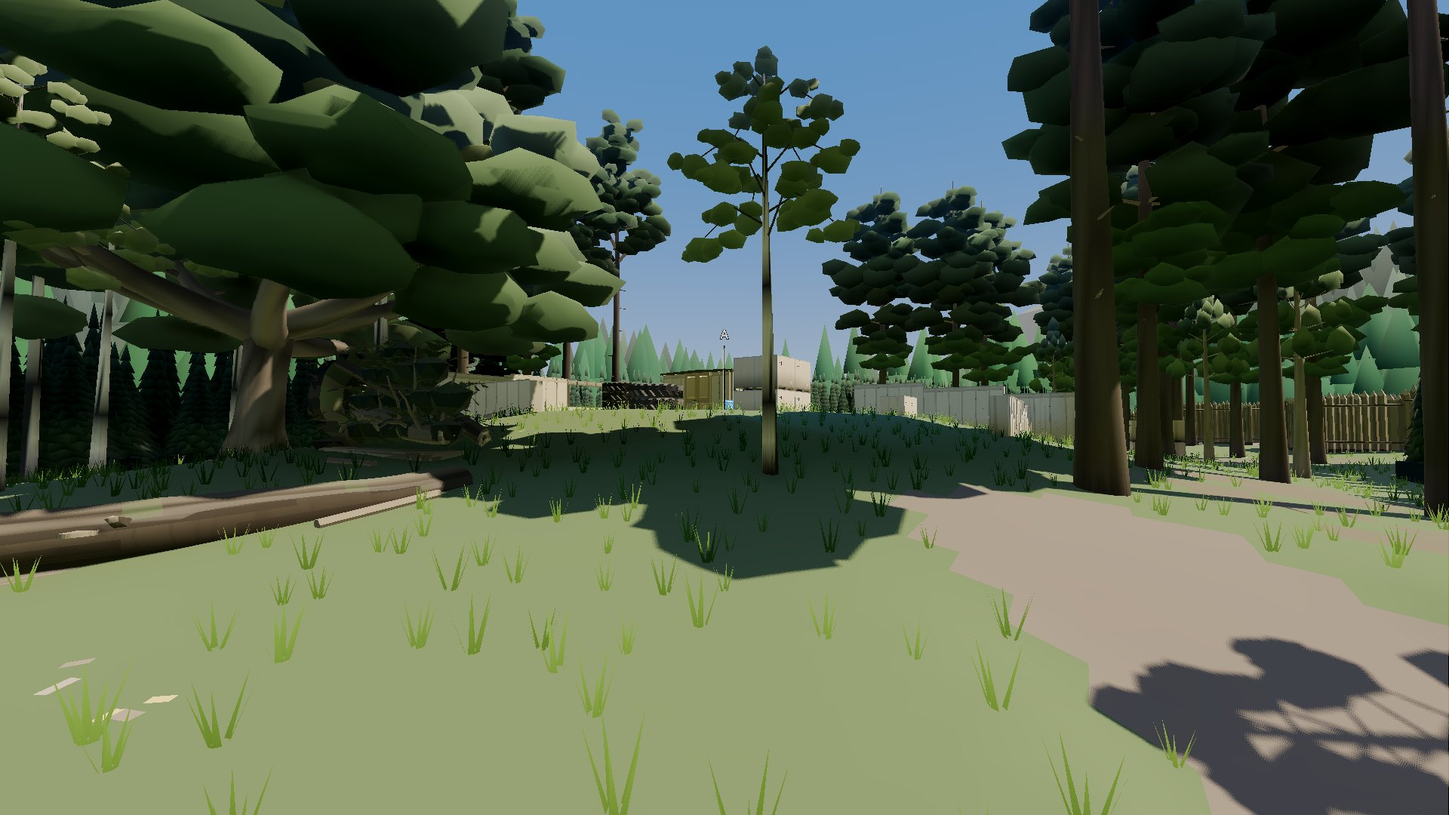
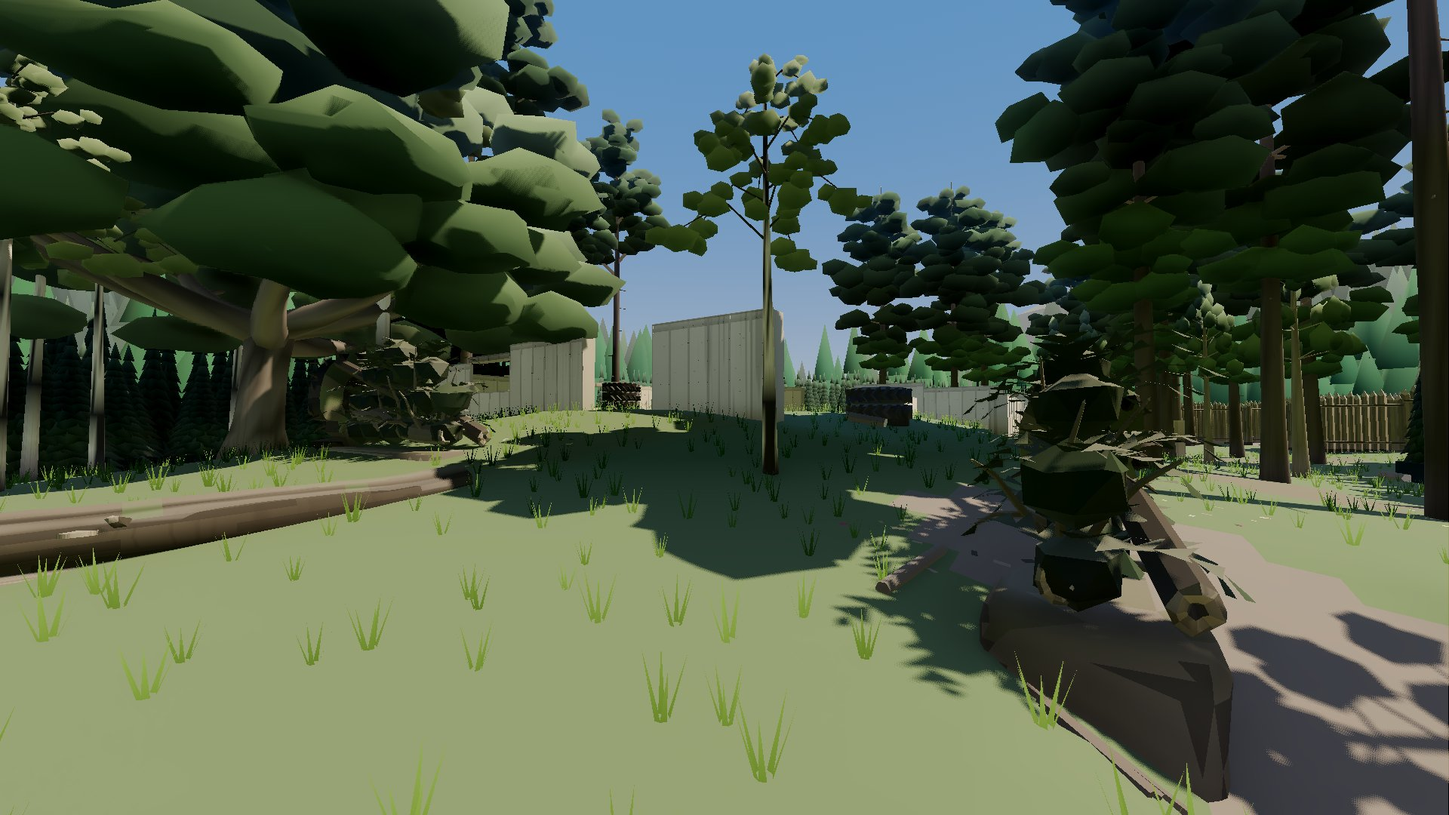
MB1: figures measured again on RP1's replicas, Woodland's card, QA's re-check
Every before and after in the record, the decisions and the known issues is now
measured on the branch rebuilt on RP1: Depot 49 to 51 % and 44 to 51 %, Woodland
55 to 50 % and 56 to 59 %, Subway 55 to 54 % and 46 to 52 %.

Claude-Session: https://claude.ai/code/session_01JjsDiwZQZfx2FhRSxBWSM5

diff --git a/docs/records/MB1.md b/docs/records/MB1.md
@@ -28,9 +28,12 @@ Three dev tools, none exported, none run by a check:
   commit's map for a "before"); `tools/maps/los.py` is a quick 2.5D sight check for trying a layout edit.
 
 Eight matches a mode at 6v6 and Normal are about 60 rounds, so a win share carries about ±6 points; the figures that
-decided a pass were re-run to 16 matches, and Woodland's before and after are 16 each. Subway's are measured on
-`main`'s map of 2026-11-12 (SM2 and TB1 merged), before and after. Bands: each end 45 to 55 % of Elimination's
-rounds, the attackers 40 to 65 % of Attack / Defend's (`tools/balance.sh`).
+decided a pass were re-run to 16 matches or more. Bands: each end 45 to 55 % of Elimination's rounds, the attackers
+40 to 65 % of Attack / Defend's (`tools/balance.sh`).
+
+RP1 (the replicas' balance, #319) merged while this task ran and moved the bots' fights, so every "after" below is
+measured on the branch rebuilt on it (`main` at 055b438), and the "before" is `main`'s own map at that commit unless
+a figure says "before RP1".
 
 ## What the bots' planner needs of a lane
 
@@ -53,35 +56,37 @@ rounds, Attack / Defend's the attackers'.
 
 | Field | Elimination | Attack / Defend | Knock-out range, Elimination (median; over 30 m) |
 |---|---|---|---|
-| Depot | 44 % ±3 (242 rounds) to 50 % ±5 (122) | 48 % ±6 to 43 % ±7 (46 % ±4 over the last three passes, 181) | 12 m, 6 % (unchanged) |
-| Woodland | 46 % ±5 (121) to 44 % ±4 (124) | 61 % ±4 (123) to 55 % ±5 (121) | 38 m, 71 % to 17 m, 20 % |
-| Subway | 57 % ±6 (63) to 46 % ±5 (117) | 38 % ±6 to 57 % ±6 | 7 m to 8 m, none |
+| Depot | 49 % ±4 (124 rounds) to 51 % ±5 (121) | 44 % ±6 (62) to 51 % ±6 (65) | 13 m, 6 % to 12 m, 5 % |
+| Woodland | 55 % ±6 (60) to 50 % ±4 (173) | 56 % ±5 (120) to 59 % ±5 (117) | 40 m, 73 % to 20 m, 25 % |
+| Subway | 55 % ±4 (127) to 54 % ±4 (127) | 46 % ±6 (59) to 52 % ±6 (60) | 7 m to 8 m, none |
 
 ### Depot (`tools/depot/layout.py`, `data/maps/depot.json`, 222 blocks, were 220; the bake rebuilt)
 
-- **Found:** the lanes, links and ranges are sound (knock-outs at 12 m, 6 % over 30 m, rounds 41 s). Attack / Defend's
+- **Found:** the lanes, links and ranges are sound (knock-outs at 13 m, 6 % over 30 m, rounds 45 s). Attack / Defend's
   defenders waited at the foot of the A stairs and the B ramp, outside the sites, and the poles stood in the open: on
-  the two sites the attackers lost 188 and scored 71, and 70 defenders were caught on the stairs and the ramp.
-  Elimination leaned east, 44 % for the west over 242 rounds (the first two passes, which left the middle alone,
-  included).
+  the two sites the attackers lost 203 and scored 70, and 78 defenders were caught on the stairs and the ramp; a flag
+  went up in 27 % of rounds. Before RP1 Elimination leaned east (44 % ±3 for the west over 242 rounds), the west's
+  squads sent 6 m deeper down the Chrono hall than the east's; with RP1's replicas the same layout reads 49 % ±4.
 - **A site:** a crate stack at (41.5, -27.2) between the pole and both Offices doors and one at (46.2, -23.8) between
   it and the A stairs' mouth; the corner stack at (49.2, -26), behind the pole, is gone. **B site** mirrors it:
   (42.5, 27.6) and (47.0, 24.4) in, (50, 27) out.
 - **Lanes:** the north and south lanes end on the sites, one post behind the flag stack and one at the low crate by
   the stairs (ramp) mouth; the middle lane's two are behind the Garage dog-leg's stacks. Each lane has one point
-  about 4.5 m either side of the middle and none between; the middle lane's pair sits 0.8 m east of even (dead even
-  the west took 55 % ±4 over 195 rounds).
-- **After:** on the sites 111 to 190, the median knock-out there at 10 m (16) and half inside 10 m (a fifth); 20
-  defenders caught on the stairs and ramp. `tests/unit/test_baked_light.gd` counts the two blocks more.
+  about 4.5 m either side of the middle and none between; the middle lane's pair sits 0.8 m east of even (before RP1,
+  dead even gave the west 55 % ±4 over 195 rounds and 0.8 m east 50 % ±5).
+- **After:** on the sites 148 to 208, the median knock-out of Attack / Defend at 10 m (16) and 48 % inside 10 m
+  (22 %); 22 defenders caught on the stairs and ramp; a flag goes up in 45 % of rounds and the attackers take 51 % ±6
+  (44 % ±6). Elimination stays even (51 % ±5 over 16 matches). `tests/unit/test_baked_light.gd` counts the two blocks
+  more.
 
 ### Woodland (`tools/woodland/layout.py`, `data/maps/woodland.json`, `tools/woodland/check.py`)
 
 - **Found:** every lane was shot from end to end. The Ridge looked 86 m down the north lane, the Clearing 70 m over
   the Ford to Hut row, and the Long road ran 60 m with nothing on it under a hump 2.5 m over the road beyond. Of
-  Elimination's knock-outs 71 % came from over 30 m (median 38 m; a round's first at 40 m). The win shares were in
-  band or at its edge (the west 46 % ±5 of Elimination, the attackers 61 % ±4), but the flags were taken from outside:
-  round the two poles the attackers scored 315 to 97 from about 30 m, the Fort's west side a low wall and flag B open
-  to the road.
+  Elimination's knock-outs 73 % came from over 30 m (median 40 m; a round's first at 45 m; before RP1 71 %, 38 m and
+  40 m). The win shares were in band (the west 55 % ±6 of Elimination, the attackers 56 % ±5; before RP1 46 % ±5 and
+  61 % ±4 over 16 matches each), but the flags were taken from outside: round the two poles the attackers scored 309
+  to 100 from about 30 m, the Fort's west side a low wall and flag B open to the road.
 - **North:** five hazels on the Ridge's brow and three behind (the Brow hazel; a windthrow screen with one gap gave
   the west 30 %); a fallen tree at the North bridge's west head and a cordwood stack at its east; the Fort's west
   side a full wall with a window and a doorway, crates and a tyre stack inside, a fallen tree off its south side.
@@ -91,41 +96,48 @@ rounds, Attack / Defend's the attackers'.
   east bank, joined, with a hazel below and three on the crest at the head of the bank's ramp, 5 m wide; the Hut row
   crates deeper and double height, and a stack across the Back yard's mouth.
 - **South:** three fallen trees across the Long road, staggered, the first on the hump's top (`tag="roadblock"`:
-  `check.py` lets a piece meant to block the road stand on it); a cordwood stack across the road 14 m past the
-  Culvert, a gate screen's 2.8 m, and one behind the west camp's road gate; at the Sawmill a stack between flag B and
+  `check.py` lets a piece meant to block the road stand on it); a cordwood stack across the road where the lane
+  leaves the Culvert, a gate screen's 2.8 m, and one behind the west camp's road gate; at the Sawmill a stack between flag B and
   the road.
 - **Lanes:** re-laid through the new pieces; the middle lane ends in the Back yard (it ended in the east camp). Each
   has one point either side of the field's middle, the middle lane's western one behind the Clearing's tree. The
-  south lane's last two, flag B's defenders, are behind the crates north of the road mouth and behind the flag's
-  stack.
-- **Passes:** twelve layouts were measured (`pipeline/out/mb1/`, not committed). A screen with one gap on the Ridge
+  north lane's middle falls at the west end of the North bridge, a footbridge 1.8 m wide: the west's point is on the
+  deck's first metres and the east's 2 m off that end by the fallen tree's root plate, so the lane is fought at the
+  bridge's west head and the west is not sent over the deck. The south lane's last two, flag B's defenders, are behind the crates north of the road mouth and
+  behind the flag's stack.
+- **Passes:** fifteen layouts were measured (`pipeline/out/mb1/`, not committed). A screen with one gap on the Ridge
   gave the west 30 %. A fourth road tree and an open Ford each put the long lines back (26 m, 43 % over 30 m). A 2 m
   door between the Ford's thickets was a queue. A pen of two stacks round flag B gave the attackers 78 %. The road's
   stack at 1.8 m left one 52 m duel from the hump onto flag B's post, 88 of Attack / Defend's 142 knock-outs from over
-  38 m; at 2.8 m and 3.5 m further east, where that line is lower, 3 of 107 recorded pairs still see each other. Flag
-  B's forward defender in the road mouth took 80 of the 175 knock-outs the attackers scored there, from 25 m
-  (attackers 64 %); behind the crates, 55 %. The first eight baseline matches read 43 % and 70 % and sixteen read 46 %
-  and 61 %: the before is measured as long as the after.
-- **After:** Elimination's median knock-out at 17 m (38), 20 % from over 30 m (71), a round's first at 16 m (40); by
-  lane the north 25 m, the middle 17 m, the road 10 m (38, 37 and 39). Attack / Defend: 17 m (33) and 17 % over 30 m
-  (58); round flag A the attackers score 109 to 121 at 8 m (146 to 55 at 38 m), round flag B 150 to 88 at 9 m (169 to
-  42 at 27 m). The west's 44 % ±4 of Elimination is a point under the band, as the 46 % ±5 before was at its edge
-  (`docs/KNOWN_ISSUES.md`).
+  38 m; a gate screen's 2.8 m shuts it. The same stack 3.5 m further east was the attackers' cover onto the site
+  (71 % of 126 rounds), so it stands where the lane leaves the Culvert. Flag B's forward defender in the road mouth
+  took 80 of the 175 knock-outs the attackers scored there, from 25 m; behind the crates the attackers' share fell
+  from 64 to 55 % (before RP1). With the north lane's western stop at the bridge's east end the west crossed the deck
+  into the east's guns, lost that lane 133 to 187 and won 40 to 44 % of Elimination over three layouts; at the west
+  end, 50 %. The first eight baseline matches read 43 % and 70 % and sixteen read 46 % and 61 %: the before is
+  measured as long as the after.
+- **After:** Elimination: the west 50 % ±4 over 24 matches (173 rounds); the median knock-out at 20 m (40), 25 %
+  from over 30 m (73), a round's first at 17 m (45); by lane the north 26 m, the middle 19 m, the road 14 m (39, 41
+  and 41), and no lane is lost by more than 349 to 308. Attack / Defend: the attackers 59 % ±5 over 16 matches
+  (56 % ±5); 18 m (32) and 17 % over 30 m (55); round flag A they score 117 to 111 at 10 m (136 to 56 at 38 m), round
+  flag B 138 to 94 at 9 m (173 to 44 at 25 m).
 
 ### Subway (`tools/subway/layout.py`, `data/maps/subway.json`; no block moved)
 
 - **Found:** the closest fights of the three (median 7 m) on two of three floors: both poles stood on the south side
   (A on the south platform, B on the stair landing 11 m from it), so the north platform saw 1 % of Elimination's
   knock-outs and under 0.4 % of Attack / Defend's play time. Every attacker came down the middle stair, where the
-  defenders scored 68 at its top for none lost: the attackers won 38 % and raised a flag in 10 % of rounds. One lane
-  ran down the spiral stair, about 40 s for a bot, and rounds ran 77 s.
+  defenders scored 56 at its top for none lost, and a flag went up in 8 % of rounds (the attackers' 46 % ±6 came from
+  knock-outs). One lane ran down the spiral stair, about 40 s for a bot, and rounds ran 72 s.
 - **Flag B** stands on the north platform at (33, -7.8).
 - **Lanes:** the north lane takes the lifts down and runs the north platform; the south lane takes the escalators'
   north lane (the middle lane their south one, as SM2 laid them) and the concourse to the middle stair, its last two
-  points (the defenders' posts) the stair's landing and foot. None takes the spiral stair.
-- **After:** the north platform takes 17 % of Elimination's knock-outs and 39 % of Attack / Defend's (111 to 99); a
-  flag goes up in 25 % of rounds; Elimination's rounds run 50 s; the stair top costs the attackers 26. The street
-  end's 46 % ±5 of Elimination is over 16 matches (57 % ±6 over the 8 before; PP1's 32 gave 50 %).
+  points (the defenders' posts) the stair's landing and foot. None takes the spiral stair. The north lane has one
+  point 4.45 m either side of the field's middle (QA found its stops 1.1 and 15 m deep).
+- **After:** the north platform takes 16 % of Elimination's knock-outs and 37 % of Attack / Defend's (98 to 103); a
+  flag goes up in 18 % of rounds (8 %); Elimination's rounds run 49 s (72) and Attack / Defend's 53 s (71); the stair
+  top costs the attackers 33 (56). The win shares hardly move: the street end 54 % ±4 of Elimination over 16 matches
+  (55 % ±4), at the band's upper edge both times, and the attackers 52 % ±6 (46 % ±6).
 
 ## Decisions
 
@@ -134,10 +146,15 @@ rounds, Attack / Defend's the attackers'.
   DR1).
 - **Subway's blocks stay where they are** while its model threads work on them: both of its faults were the flags'
   and lanes'.
-- **Woodland's lanes differ in range** (the road 10 m, the Clearing 17 m, the north 25 m), so each replica class
+- **Woodland's lanes differ in range** (the road 14 m, the Clearing 19 m, the north 26 m), so each replica class
   has a lane.
-- **Woodland's Elimination is left a point under its band** (44 % ±4, 46 % ±5 before): twelve passes moved it between
-  37 and 58 % and none held it apart from the noise; the full balance pass measures it at 32 seeds.
+- **Woodland's road stack stands a gate screen's 2.8 m,** though the owner asked for the woodpiles "less tall"
+  (2026-11-09): at a woodpile's 1.8 m the hump looks over it onto flag B's post. `test_wg2_woodland_models` allows
+  the two heights; a play check asks him to look at it.
+- **Woodland's attackers at 59 % are in the band's upper half** (40 to 65 %): the flags are now fought for on the
+  sites, and the full balance pass measures it at 32 seeds.
+- **Subway's Elimination stays at the band's upper edge** (the street end 54 % ±4; 55 % ±4 before; 50 % at PP1's 32
+  seeds): moving a flag and the lanes did not move it apart from the noise, and the full balance pass measures it.
 - **Measured at Normal, 6v6, by day.** Easy, Hard, the other team sizes and Woodland's night belong to the full
   balance report of the Dev 3 final pass (`tools/balance.sh`).
 

diff --git a/docs/KNOWN_ISSUES.md b/docs/KNOWN_ISSUES.md
@@ -11,8 +11,8 @@ Every open bug, limit and known gap in the game, so nobody re-reports or re-meas
 
 | Area | Issue | Class | Found |
 |---|---|---|---|
-| Maps | Subway (MT1, Dev) at 32 seeds (PP1, 2026-11-11, before the lift fixes): Normal is even (Elimination 50.0 % ±3.2 each team and end; the attackers 44.4 % ±3.2 of Attack / Defend), but at 16 seeds the attackers took 67.2 % ±4.3 at Easy (band 35–65) and 61.1 % ±4.3 at Hard (40–60), both outside within noise, and the west end 61.7 % ±4.3 (Easy) and 58.3 % ±4.5 (Hard) of Elimination's, near an edge. MB1 (2026-11-12) moved flag B to the north platform and re-laid the lanes, so those figures describe the old layout: at Normal the attackers now take 57 % ±6 (8 seeds; 38 % ±6 on the same seeds before) and the street end 46 % ±5 of Elimination's rounds (16 seeds); Easy, Hard and the other sizes are re-measured at the full balance pass. Its south platform's 58 m line is the field checks' one exception (34 m elsewhere): playtest whether it rules the Tunnel team's push | playtest | 2026-11-10 |
-| Maps | Woodland at Hard runs out the clock in 15.6 % ±3.2 of Attack / Defend rounds (20 of 128, band ≤ 10 %; before PP1's flash dodge 11.8 % ±3.0, so already outside, within noise): Hard bots hold angles and the round ends on time. At Normal (32 seeds) Beta took 56.5 % ±3.1 of Elimination's decided rounds (band 45–55, outside within noise) with the ends even (52.4 % east); re-measure at the full balance pass (PP1). MB1 (2026-11-12) re-laid the field's cover and lanes: at Normal, 6v6 and 16 seeds the west end took 44 % ±4 of Elimination's rounds (46 % ±5 before on the same seeds; band 45 to 55, at its edge both times) with the median knock-out at 17 m (was 38 m); Hard's clock is not re-measured | playtest | 2026-11-11 |
+| Maps | Subway (MT1, Dev) at 32 seeds (PP1, 2026-11-11, before the lift fixes): Normal is even (Elimination 50.0 % ±3.2 each team and end; the attackers 44.4 % ±3.2 of Attack / Defend), but at 16 seeds the attackers took 67.2 % ±4.3 at Easy (band 35–65) and 61.1 % ±4.3 at Hard (40–60), both outside within noise, and the west end 61.7 % ±4.3 (Easy) and 58.3 % ±4.5 (Hard) of Elimination's, near an edge. MB1 (2026-11-12) moved flag B to the north platform and re-laid the lanes, so those figures describe the old layout: at Normal, with RP1's replicas, the attackers now take 52 % ±6 (8 seeds; 46 % ±6 on the same seeds before) and the street end 54 % ±4 of Elimination's rounds (16 seeds; 55 % ±4 before, at the band's edge both times); Easy, Hard and the other sizes are re-measured at the full balance pass. Its south platform's 58 m line is the field checks' one exception (34 m elsewhere): playtest whether it rules the Tunnel team's push | playtest | 2026-11-10 |
+| Maps | Woodland at Hard runs out the clock in 15.6 % ±3.2 of Attack / Defend rounds (20 of 128, band ≤ 10 %; before PP1's flash dodge 11.8 % ±3.0, so already outside, within noise): Hard bots hold angles and the round ends on time. At Normal (32 seeds) Beta took 56.5 % ±3.1 of Elimination's decided rounds (band 45–55, outside within noise) with the ends even (52.4 % east); re-measure at the full balance pass (PP1). MB1 (2026-11-12) re-laid the field's cover and lanes: at Normal and 6v6, with RP1's replicas, the west end took 50 % ±4 of Elimination's rounds (24 seeds; the old layout 55 % ±6 over 8; band 45 to 55) with the median knock-out at 20 m (was 40 m); Hard's clock is not re-measured | playtest | 2026-11-11 |
 | Maps | A bot that replans while riding a Subway lift starts its route at the landing of the car's current destination; if the car then stops on the way at a stop called meanwhile, the bot walks out there on the wrong floor's leg and replans once it is off it (PP1) | can wait | 2026-11-10 |
 | Maps | Subway's lifts work (MT2); their doors and ride are the owner's lift (AU10; the ride's sound lasts one floor, 3.2 s), but the chime, button and buzzer are still synthesised placeholders, and a car is a greybox box. Since MT3 the station wears CC0 materials (tiles, terrazzo, concrete, ballast, rails); it has no station models or signs yet (benches, signs and the trains are still boxes) | can wait | 2026-11-11 |
 | Maps | Subway's lifts (MT2): a doorway is solid from the moment its doors start to shut until they are fully open, so a BB through a half-open gap stops on it for up to 1.5 s; someone on a car's roof isn't carried (no roof is reachable); Use presses a lift button in reach before a hinged door (no map has both close) | can wait | 2026-11-10 MT2 |
@@ -47,7 +47,7 @@ Every open bug, limit and known gap in the game, so nobody re-reports or re-meas
 | Play | The Sniper Rifle's Fire clip and cocking play stretched to its ready time since BP7 (the clip by the replica's fire rate with its parts; the arms' bolt clip with it), but the cocking sound is cut for the M130's 1.25 s: with the M150 (1.39 s) its last knock lands about 0.14 s before the bolt is home. The cocking is the owner's recorded pistol slide since AU2; re-time with the owner's model | playtest | 2026-11-07 |
 | Bots | No bot kit carries the Variable Scope yet; if one did, it would keep it at 2×, so a Variable Scope sniper bot is no better than one with the 2x Scope and raises slower: in the bench it hit about 0.5 to 0.85 times for each time it was hit, the M150 rifle about 1.0 (SN3) | document | 2026-11-03 |
 | Maps | With Sniper Rifle bots, Woodland's Elimination gave end 0 58 % of decided rounds at 7v7 (bots, 8 seeds; band 45 to 55 %). At 16 seeds the other sizes are in band (BP7): 50 % at 5v5, 45 % at 6v6 and 53 % at 8v8 (8 seeds had 55, 55 and 60 %); rerun 7v7 at 16 seeds before tuning | can wait | 2026-11-03 |
-| Maps | Woodland's Attack / Defend leans to the attackers: 57.4 % ±4.6 at 6v6 with the 7 s raise and 3 s hold (bots, 16 seeds, BP8; band 40 to 65 %), in band. The other sizes ran 58 to 68 % before BP8 (TS1) and aren't re-measured. After MB1's layout (2026-11-12): 55 % ±5 at 6v6 (16 seeds; 61 % ±4 before on the same seeds). Flag B is still the softer site: round its pole the attackers score 150 to the defenders' 88 (169 to 42 before), round flag A 109 to 121 | can wait | 2026-11-08 |
+| Maps | Woodland's Attack / Defend leans to the attackers: 57.4 % ±4.6 at 6v6 with the 7 s raise and 3 s hold (bots, 16 seeds, BP8; band 40 to 65 %), in band. The other sizes ran 58 to 68 % before BP8 (TS1) and aren't re-measured. After MB1's layout (2026-11-12, with RP1's replicas): 59 % ±5 at 6v6 (16 seeds; 56 % ±5 for the old layout on the same seeds). Flag B is still the softer site: round its pole the attackers score 138 to the defenders' 94 (173 to 44 before), round flag A 117 to 111 | can wait | 2026-11-08 |
 | Modes | A simulated round (SIMULATE on a skip, BP8) counts for the score, XP and records like a round played out, though nobody played it | playtest | 2026-11-08 |
 | Bots | Bushes and ferns slow everyone to three quarters (BP8), but bots' routes don't know it: they walk through a bush where going round would be quicker | can wait | 2026-11-08 |
 | Wiki | Patch Notes lists features added and later replaced, as the changelog notes do (WK1): marking them means editing CHANGELOG.md, which no pull request does. Keys other than the squad orders' and a few numbers in the wiki's prose are still typed; the squad keys, the minimap's hearing, the late push and the restore points are generated and the flat ranges checked against the simulation since BP7 | document | 2026-10-25 |

diff --git a/docs/DECISIONS.md b/docs/DECISIONS.md
@@ -806,30 +806,34 @@ The pipeline's protocol is `pipeline/README.md`; its policy `docs/PROCESS.md`.
   stand on the site behind cover, never at a spawn's mouth or a stair's foot. Either side of the field's middle it
   has one point, about equally deep, and none between: a squad sweeps to the first point past the middle
   (`RoundPlanner._points_to_middle`), and the end sent deeper loses (Depot's west won 44 % of Elimination's rounds
-  walking 6 m deeper down the Chrono hall, 55 % dead even, 50 % with the middle lane's pair 0.8 m east of even). No
+  walking 6 m deeper down the Chrono hall, 55 % dead even, 50 % with the middle lane's pair 0.8 m east of even, before
+  RP1's replicas; Woodland's west 40 to 44 % sent over the North bridge, 50 % stopped at its head). No
   lane takes a way a bot is slow on (Subway's spiral stair, about 40 s against a lift's 10), and none goes through a
   gap a squad can't pass abreast.
 - **Each of Depot's flags stands between two crate stacks (2026-11-12, MB1).** One hides the pole from the site's
   doors, the other from the A stairs or the B ramp; the two corner stacks behind the poles are gone. The defenders'
   posts are behind them and the Garage's behind its dog-leg stacks, so Attack / Defend is fought on the sites (the
-  knock-outs there went from 71 to 188 against the attackers to 111 to 190, at 10 m, not 16).
+  knock-outs there went from 70 to 203 against the attackers to 148 to 208, at 10 m, not 16, and a flag goes up in
+  45 % of rounds, not 27 %).
 - **Woodland's lanes are broken by pieces on the high ground and by leaves (2026-11-12, MB1).** A hazel hedge on the
   Ridge's brow, a fallen tree and a log stack at the North bridge's heads, a west wall with a window and a doorway on
-  the Fort, three fallen trees across the Long road (the first on the hump's top) and a log stack across it east of
-  the Culvert, a fallen tree in the Clearing where the west's sweep ends, two spruce thickets on the Ford's east bank
-  with hazels on the crest at the head of its ramp, and a log stack beside flag B, whose forward defender waits behind
-  the crates north of the road mouth (in the mouth he was shot from 25 m before a fight reached the flag). A piece in
-  a dip hides nobody on a rise behind it (the road's stack is a gate screen's 2.8 m, 14 m past the Culvert: at 1.8 m
-  the hump looked over it, 52 m onto flag B's post), and a screen with one gap is a trap for whoever must come
-  through: bushes are walked through on a broad front. A pole walled on two sides hides whoever raises it as well as
-  whoever holds it: a pen of two stacks round flag B, with the defenders' posts inside it, gave the attackers 78 % of
-  120 rounds, and came out. The lanes' ranges now differ (Elimination's median knock-out: the road 10 m, the Clearing
-  17 m, the north 25 m; each was 37 to 39 m). The Ridge's 86 m overlook of the WR1 decision is gone; the 170 m
-  exception stays for the pinholes between trunks.
+  the Fort, three fallen trees across the Long road (the first on the hump's top) and a log stack across it east of the
+  Culvert, a fallen tree in the Clearing where the west's sweep ends, two spruce thickets on the Ford's east bank with
+  hazels on the crest at the head of its ramp, and a log stack beside flag B, whose forward defender waits behind the
+  crates north of the road mouth (in the mouth he was shot from 25 m before a fight reached the flag). A piece in a dip
+  hides nobody on a rise behind it (the road's stack is a gate screen's 2.8 m where the lane leaves the Culvert: at
+  1.8 m the hump looked over it, 52 m onto flag B's post, and 3.5 m further east it was the attackers' cover onto
+  the site), and a screen with one gap is a trap for whoever must come through: bushes are walked through on a broad front.
+  A pole walled on two sides hides whoever raises it as well as whoever holds it: a pen of two stacks round flag B,
+  with the defenders' posts inside it, gave the attackers 78 % of 120 rounds, and came out. The north lane's two stops
+  are at the North bridge's west head (the field's middle crosses there, and the bridge is a footbridge 1.8 m wide:
+  sent over it to its east end, the west lost that lane 133 to 187). The lanes' ranges now differ (Elimination's median
+  knock-out: the road 14 m, the Clearing 19 m, the north 26 m; each was about 40 m). The Ridge's 86 m overlook of the
+  WR1 decision is gone; the 170 m exception stays for the pinholes between trunks.
 - **Subway's flag B stands on the north platform (2026-11-12, MB1).** It stood on the stair landing 11 m from flag A,
   and the north platform saw 1 % of the fights; now each platform holds a flag. The north lane runs that platform from
-  the lifts, the south lane takes the escalators and the concourse to the middle stair, where two defenders hold. No
-  block moved.
+  the lifts, the south lane takes the escalators and the concourse to the middle stair, where two defenders hold; the
+  north lane has one stop 4.45 m either side of the field's middle. No block moved.
 
 ## Replicas, Loadout and levels
 

diff --git a/pipeline/out/qa-report.md b/pipeline/out/qa-report.md
@@ -1,18 +1,17 @@
-Task: none (MQ1) · QA commit this commit · Verdict: Pass
+Task: none (MB1) · QA commit 1ba134c (tests unchanged; re-verified at head 85bcc67) · Verdict: Pass
 
-Attempt 2 review (git diff 370f289 HEAD, the 16-slot change).
-Blocking: none. Advisory: none new.
+Blocking
+- none. The earlier fault (Subway north lane stops 1.1 m against 15 m about the middle) is fixed: layout.py LANES "n" now has (3.5,-7.0) and (12.4,-7.5), 4.45 m either side of x 7.95; test_subway_lanes_have_a_point_either_side_of_the_middle_about_equally_deep_for_both_ends passes.
+Advisory (unchanged, still true)
+- Woodland's middle lane ends at (58, 4.5) in the east camp's Back yard, 35 m from the nearest pole: by design per the record; pinned as an exemption in the defender-post test.
+- Depot's and Woodland's middle lanes read inside the 3.5 m slack I pinned.
+- Exit-time leak warnings and ExpectedError lines in test_baked_light are its deliberate mismatch cases.
 
-Checked by reading and by test:
-- No code path still assumes 8 slots: grep of game/, tests/, tools/ finds no `* 8`, no old names (worn_materials, MAX_WORN, OWN_GLOW) left; renamed callers (play_session, tests) use surface_materials / surfaced.
-- ReplicaSurfaces._build pads to SLOTS (16) for indices past the 7 kinds with the polymer row, so kind_finish/grain/tone/shine are all 16 long; KINDS = 16 and hint_range(0, 15) in the shader match. Alpha 1.0 (no colours) reads 16 -> default_kind (never indexes a table).
-- Chroma maths: divisor is max(top, CHROMA_FLOOR), so pure black is safe; a paint above 1 (bare gain 2.2) only raises chroma, mix stays finite.
-- Part and attachment/magazine files (not rebuilt) carry no kinds or only valid sixteenths: scan test below passes, so they draw as default polymer / steel by part.
-- Shader compile: tests that build and dress the material (test_replica_surfaces, test_replica_wear, test_mq1_qa) run without script errors headless; a Compatibility-renderer compile needs a display (owner's list).
+Change since the last report (85bcc67): Woodland's north lane stops moved off the North bridge's deck ends ((-2.8,-41.5) west, (-6.4,-41.6) east), Subway's north lane gained two stops; both JSONs rebuilt. No test changed; the existing lane-depth, reachability and seeded-match tests cover both.
 
-Tests added (tests/unit/test_mq1_qa.gd):
-- test_every_replica_and_part_file_names_kinds_in_sixteenths_or_none · scans every vertex-colour alpha in assets/models/replicas and replicaParts for a whole slot below KINDS or 16 · fails on a file still cut for 8 slots (alpha 1/8 would be 2 sixteenths... checked by reasoning, not by a stale file; no stale glb exists to stub).
-- test_all_four_kind_tables_are_the_shaders_length · dress() sets four tables of SLOTS entries and the include's KINDS equals SLOTS · fails if either side is changed alone (old value 8 vs 16).
+Tests (tests/unit/test_mb1_layouts.gd, 9 tests, added earlier; each was checked against origin/main's data, see the earlier run: the lane-depth, flag-B post, Subway flag B and sight-line tests fail on main).
 
-Runs: test_mq1_qa 8/8, test_replica_surfaces 14/14, test_replica_wear 15/15; gdlint clean. Full suite, smoke and check.sh not run (background suite ran per instruction).
-Not testable here: Compatibility/Forward+ shader look, turntable and menu pictures on screen, bots' figure copies visually (display needed).
+Runs at head, one file each, -gdir= -gtest: test_mb1_layouts 9/9, 124 s; test_woodland_layout 17/17, 57 s; test_wg2_woodland_models 8/8; test_bot_lifts 8/8 (Subway lifts). Loaded machine.
+tools/woodland/check.py: TOTAL 0. Subway and Woodland build_map.py ran earlier in this session: git status of data/maps was empty (JSON matches its scripts); not rerun on the coordinator's instruction.
+
+Not covered: tools/check.sh, the full suite and the smoke test (skipped by instruction); win share (balance); dev tools. Note: two stray whole-suite runs I started by mistake (missing -gdir=) were left to end by themselves.
